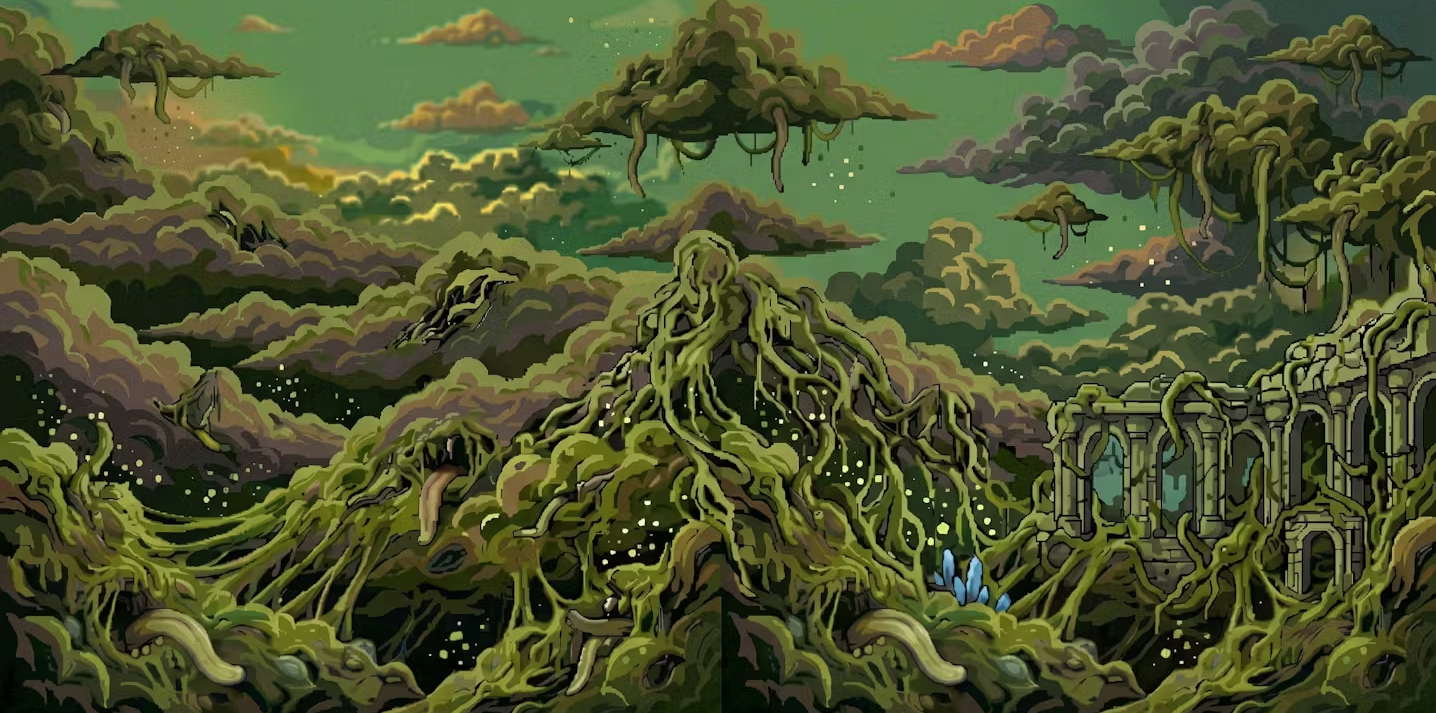
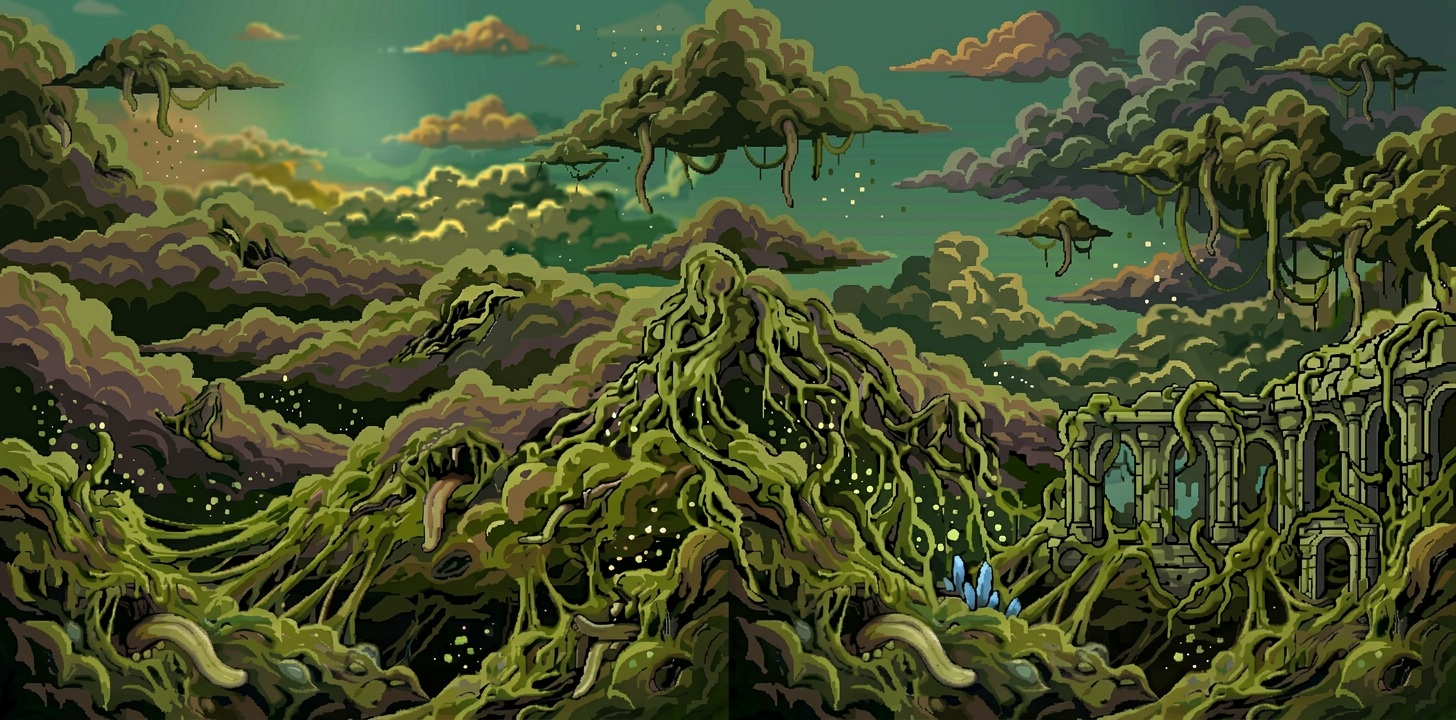
Start on third level

diff --git a/Boss.ts b/Boss.ts
@@ -26,14 +26,12 @@ let B_Spider_y = -1000
 
 let Health_bar_width = W-842
 let boss = new Hitbox(1150, H, 100, 250)
-let boss_Health = 5
+let boss_Health = 200
 let boss_Attack_hitboxes= []
 let boss_Currently_Attacking = true
 let boss_Which_attack = 0
-let boss_Blow_attack = 0
 let boss_timer = 0
 let blow_timer = 0
-let blowing = false
 let Arms_first_y = -200
 let Arms_second_y = -50
 let Jesus_y = -150
@@ -57,7 +55,7 @@ export function boss_Attacks () {
     
     if(boss_Currently_Attacking && boss_timer > 30){
         boss_Currently_Attacking= false
-        boss_Which_attack = random(1,1) 
+        boss_Which_attack = random(2,2) 
         //boss_Blow_attack = random(1, 5)
         boss_timer = 0
         attack_2 = true
@@ -182,7 +180,6 @@ export function Boss_general () {
             char_x_change (char_x -1.5)
         }
         if (blow_timer > 30) {
-            blowing = false
             blow_timer = 0
         }
     }
@@ -329,8 +326,8 @@ for(let i = 0; i < boss_Attack_hitboxes.length; i++) {
         }
                 
         if (B_moving_left) {
-            boss_Attack_hitboxes[i]["hitbox"].x -= 7
-            boss_Attack_hitboxes[i]["hitbox2"].x -= 7
+            boss_Attack_hitboxes[i]["hitbox"].x -= 8
+            boss_Attack_hitboxes[i]["hitbox2"].x -= 8
             if (boss_Attack_hitboxes[i]["hitbox"].x < 250) {
                 B_moving_left = false
                 B_moving_right = true                 
@@ -340,8 +337,8 @@ for(let i = 0; i < boss_Attack_hitboxes.length; i++) {
             ctx.drawImage(bossLicking_under, boss_Attack_hitboxes[i]["hitbox"].x - 30, boss_Attack_hitboxes[i]["hitbox"].y + 30 , 150, 80)
             
         } else if (B_moving_right) {
-            boss_Attack_hitboxes[i]["hitbox"].x += 7
-            boss_Attack_hitboxes[i]["hitbox2"].x += 7
+            boss_Attack_hitboxes[i]["hitbox"].x += 8
+            boss_Attack_hitboxes[i]["hitbox2"].x += 8
             if (boss_Attack_hitboxes[i]["hitbox"].x > 900){
                 B_moving_right = false
                 B_moving_left = true
@@ -363,7 +360,6 @@ for(let i = 0; i < boss_Attack_hitboxes.length; i++) {
             flames_image_height_change(1000)
             Health_bar_width = W-842
             boss_Currently_Attacking = true
-            Goat_Y_change (600)
             if (Level == 1 && boss_Health > 0) {
             boss.y = 200
             Arms_first_y = -200
@@ -415,7 +411,6 @@ for(let i = 0; i < boss_Attack_hitboxes.length; i++) {
             flames_image_height_change(1000)
             Health_bar_width = W-842
             Jesus_y = -150
-            //Goat_Y = 600
             U_change (0)
             M_change (0)
         }
@@ -450,7 +445,7 @@ for(let i = 0; i < boss_Attack_hitboxes.length; i++) {
             boss_Currently_Attacking = true
             flames.y = 1000
             flames_image_height_change(1000)
-            Goat_Y_change (600)
+            //Goat_Y_change (600)
             boss_Attack_hitboxes.shift()
         }
     }

diff --git a/Death.ts b/Death.ts
@@ -256,7 +256,7 @@ if (GoatHellBombTimer > 100) {
             Spider_y = -700
             SecondSpider_hitbox.x = -14000
             SecondSpider_x = -14025
-            if (Level == 0) {
+            if (Level == 0 ) {
                 GnomeHitbox.x = 1015
                 GnomeHitbox.y=350
             } if (Level == 1 && boss_Health > 0){

diff --git a/Map.ts b/Map.ts
@@ -858,7 +858,7 @@ export function map_2() {
     if (boss_Which_attack != 2) {
         ctx.drawImage (Boss_Background_Jesus, 0, 0, W, H) 
     } else if (boss_Which_attack == 2) {
-        ctx.drawImage (Boss_Background_NoJesus, 0, 0, W, H)
+        ctx.drawImage (Boss_Background_NoJesus, 0, 0, W , H)
     }
 }
 
